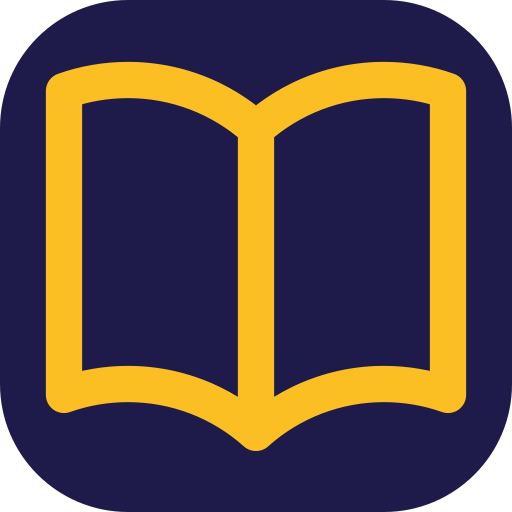
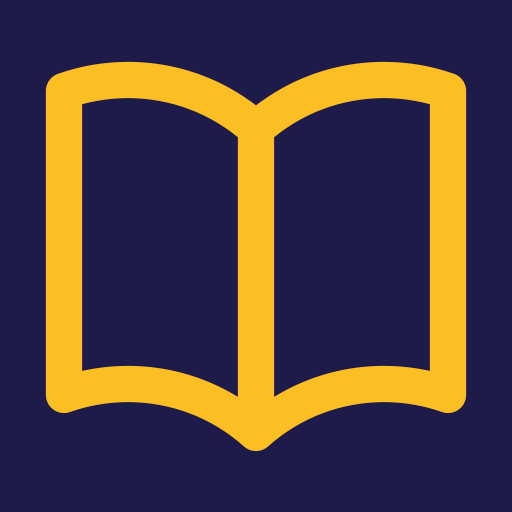
Harden the mobile PWA for offline install
- Real icon set rendered from icon.svg: full-bleed icon.png (512) and a
  new icon-192.png for Chrome's installability check, plus a padded
  icon-maskable.png (book inside the 80% safe zone) and icon-180.png for
  apple-touch-icon. The old icon.png had white corners that showed
  through under a maskable mask.
- manifest lists 192 any / 512 any / 512 maskable.
- pocket.js calls navigator.storage.persist() so the snapshot + token
  aren't first in line for eviction (installed PWAs usually get this
  anyway; harmless to ask).
- On a service-worker update, a controllerchange on an already-controlled
  page reloads it once so you get fresh code on the next launch without a
  manual relaunch — skipped on first visit where the same event fires
  without an update.

Claude-Session: https://claude.ai/code/session_01Sirgj1muyTWb1u9917mDui

diff --git a/app/assets/mobile/pocket.js b/app/assets/mobile/pocket.js
@@ -275,8 +275,24 @@
   // --- boot ----------------------------------------------------------
   async function boot() {
     if ("serviceWorker" in navigator && cfg.serviceWorkerUrl) {
+      // If a controller is already in place, a later controllerchange means a
+      // new version has taken over — reload once so the page runs fresh code.
+      // (Skipped on the very first visit, where no-controller -> controller
+      // fires the same event without an update having happened.)
+      if (navigator.serviceWorker.controller) {
+        let reloading = false;
+        navigator.serviceWorker.addEventListener("controllerchange", () => {
+          if (reloading) return;
+          reloading = true;
+          window.location.reload();
+        });
+      }
       navigator.serviceWorker.register(cfg.serviceWorkerUrl, { scope: cfg.scope }).catch(console.error);
     }
+    // Ask the browser to keep our storage (the snapshot + token) off the
+    // eviction list. Installed PWAs usually get this for free; asking is
+    // harmless and covers the in-browser case too.
+    navigator.storage?.persist?.().catch(() => {});
     if (cfg.apiToken) await idb.set("apiToken", cfg.apiToken);
 
     setStatus("loading…", "busy");

diff --git a/test/controllers/mobile/app_controller_test.rb b/test/controllers/mobile/app_controller_test.rb
@@ -47,6 +47,11 @@ module Mobile
       manifest = JSON.parse(response.body)
       assert_equal mobile_app_path, manifest["start_url"]
       assert_equal "standalone", manifest["display"]
+
+      purposes = manifest["icons"].map { |i| i["purpose"] }
+      assert_includes purposes, "maskable"
+      assert_includes purposes, "any"
+      assert(manifest["icons"].any? { |i| i["sizes"] == "192x192" }, "needs a 192px icon for installability")
     end
 
     test "service worker is public JS that precaches the shell" do
